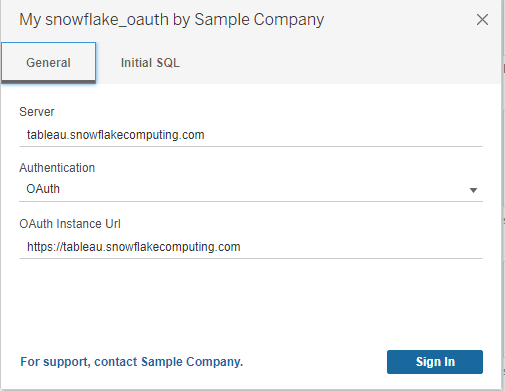
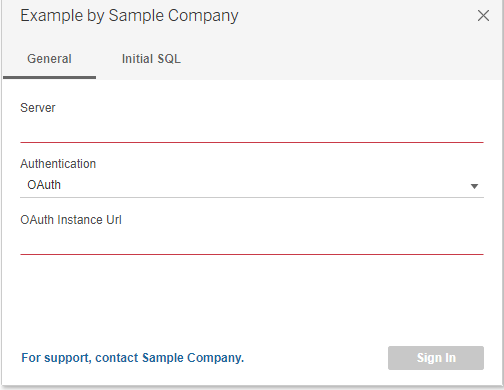
Erase Snowflake specific info, create hook from Capabilities to OAuth page.

Changed region(s): [[0.0, 0.0, 1.0, 1.0], [0.2381, 0.1231, 0.3571, 0.1846]]

diff --git a/docs/oauth.md b/docs/oauth.md
@@ -5,7 +5,7 @@ title: OAuth Authentication Support
 
 # How to enable OAuth for a plugin connector
 
-First check your Database and Driver document to make sure if it supports OAuth.
+First check your Database and Driver document to make sure if it supports OAuth. For a complete example please refer to https://github.com/tableau/connector-plugin-sdk/tree/dev-2021.1/samples/scenarios/snowflake_oauth.
 
 To enable OAUth for your connector, in the manifest add another field `<oauth-config>` and link to a oauthConfig.xml you created, described below. 
 
@@ -82,7 +82,7 @@ Each OAuth config attribute is represented by an element in the XML, the element
 | accessTokenResponseMaps | Map<String, String> | Key value pair that maps an initial token request response attribute <value> to Tableau recognized attribute <key> | No | |
 | refreshTokenResponseMaps | Map<String, String> | Key value pair that maps an refresh token request response attribute <value> to Tableau recognized attribute <key> | Yes | if not defined will use accessTokenResponseMaps by default |
 
-## Supported OAuth Capabilities
+## OAuth Capabilities
 
 This set of OAuth Config capabilities are not shared with the regular connector capabilities.
 
@@ -108,21 +108,25 @@ This set of OAuth Config capabilities are not shared with the regular connector 
 <?xml version="1.0" encoding="utf-8"?>
 <pluginOAuthConfig>
     <!-- dbclass must correspond to the class registered in manifest.xml --> 
-    <dbclass>snowflake_oauth</dbclass>
+    <dbclass>Example</dbclass>
     <!-- Subsitute these with your OAuth Client Id and Client Secret -->
     <clientIdDesktop>[your_client_id]</clientIdDesktop>
     <clientSecretDesktop>[your_client_secret]</clientSecretDesktop>
-    <-- Desktop redirectUri, subsitute for your own registered desktop redirectUri --> 
+    <!-- Desktop redirectUri, subsitute for your own registered desktop redirectUri --> 
     <redirectUrisDesktop>http://localhost:55555/Callback</redirectUrisDesktop>
     <!-- authUri and tokenUri only contains the path since it has CAP_SUPPORTS_CUSTOM_DOMAIN on, so the final oauth endpoint will be 
     your input instanceUrl + authUri/tokenUri -->
     <authUri>/oauth/authorize</authUri>
     <tokenUri>/oauth/token-request</tokenUri>
-    <!-- Used to prevent malicious instanceUrl, your instanceUrl must match this regular expression or OAuth flow will abort -->
-    <instanceUrlValidationRegex>^https:\/\/(.+\.)?(snowflakecomputing\.(com|us|cn|de))(.*)</instanceUrlValidationRegex>
-    <!-- Snowflake need refresh_token scope to issue refresh tokens -->
-    <scopes>refresh_token</scopes>
-    <!-- Snowflake supports PKCE, Cutom domain, fixed callback url -->
+    <!-- Used to prevent malicious instanceUrl, your instanceUrl must match this regular expression or OAuth flow will abort 
+    E.g. for snowflake this could be: ^https:\/\/(.+\.)?(snowflakecomputing\.(com|us|cn|de))(.*)-->
+    <instanceUrlValidationRegex>[your_instanceUrl_validation_rule]</instanceUrlValidationRegex>
+    <!-- Add the scopes needed for OAuth flow
+    E.g. Snowflake need refresh_token scope to issue refresh tokens -->
+    <scopes>scope1</scopes>
+    <scopes>scope2</scopes>
+    <scopes>scope3</scopes>
+    <!-- My Example OAuth Provider supports PKCE, Cutom domain, fixed callback url -->
     <capabilities>
         <entry>
             <key>CAP_PKCE_REQUIRES_CODE_CHALLENGE_METHOD</key>
@@ -145,7 +149,7 @@ This set of OAuth Config capabilities are not shared with the regular connector 
             <value>true</value>
         </entry>
     </capabilities>
-    <!-- Map Tableau recognized attr <key> to Snowflake OAuth response attr <value> -->
+    <!-- Map Tableau recognized attr <key> to My Example OAuth Provider response attr <value> -->
     <accessTokenResponseMaps>
         <entry>
             <key>ACCESSTOKEN</key>
@@ -211,4 +215,4 @@ When publishing a pluggable OAuth Workbook/DataSource to Tableau Server, you wil
 
 ## Web Create flow
 
-For Web Create, the UI dialog would be same with Tableau Desktop with the difference that we are using the server OAuth Client configs.
+For Web Create, the UI dialog would be same with Tableau Desktop with the difference that we are using the server OAuth Client configs.[abc](## Supported OAuth Capabilities)

diff --git a/docs/capabilities.md b/docs/capabilities.md
@@ -13,6 +13,7 @@ Use Tableau capabilities to customize and tune your connector behavior.
 * [Stored Procedures](#stored-procedures)
 * [Isolation Level](#isolation-level)
 * [Uncommon](#uncommon)
+* [OAuth](#oauth)
 
 **Read the table**
 
@@ -282,3 +283,7 @@ Capability | Description | Default | Recommended
 CAP_EXTRACT_ONLY | Set to 'yes' to perform queries on extracted data only. | &ndash; | &ndash;  
 CAP_SUPPRESS_GET_SERVER_TIME | Some datasources, such as Hive, are very slow at retrieving the server time.  | &ndash; | &ndash; 
 CAP_SUPPORTS_UNION | Set to 'no' if data source doesn't support UNION functionality. | yes | yes 
+
+## OAuth
+
+Please refer to [OAuth Capabilities]({{ site.baseurl }}/docs/oauth#oauth-capabilities).
